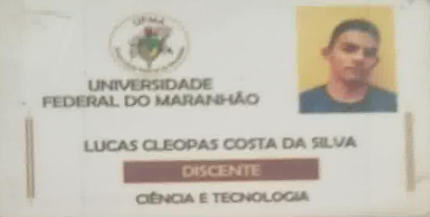
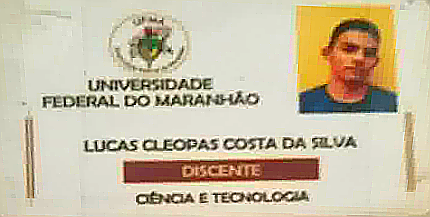
adding enhance image function

diff --git a/src/scan_img.py b/src/scan_img.py
@@ -1,9 +1,25 @@
 import cv2
 import os
 import numpy as np
+from PIL import ImageEnhance
 
-from config import OUT_DIR
-from src.utils import order_points, resize_img, four_point_transform
+from config import OUT_DIR, BRIGHTNESS, COLOR, CONTRAST, SHARPNESS
+from src.utils import order_points, resize_img, four_point_transform, pil_to_cv2_image, cv2_to_pil_image
+
+
+def image_enhancement(img):
+    pil_img = cv2_to_pil_image(img)
+    enhanced_img = pil_img.copy()
+    curr_col = ImageEnhance.Color(enhanced_img)
+    enhanced_img = curr_col.enhance(COLOR)
+    curr_bright = ImageEnhance.Color(enhanced_img)
+    enhanced_img = curr_bright.enhance(BRIGHTNESS)
+    curr_sharp = ImageEnhance.Sharpness(enhanced_img)
+    enhanced_img = curr_sharp.enhance(SHARPNESS)
+    curr_con = ImageEnhance.Contrast(enhanced_img)
+    enhanced_img = curr_con.enhance(CONTRAST)
+    enhanced_img = pil_to_cv2_image(enhanced_img)
+    return enhanced_img
 
 
 def get_edges(img):
@@ -57,6 +73,8 @@ def scan_img(img, img_name, save_steps=True, show_steps=True):
         cnt = max(contours, key = cv2.contourArea)
         x, y, w, h = cv2.boundingRect(cnt)  
         scanned_img = orig_img[y:y+h, x:x+w]        
+
+    scanned_img = image_enhancement(scanned_img)   
 
     cv2.rectangle(img, (x, y), (x + w, y + h), (0, 255, 0), 3)
 

diff --git a/src/utils.py b/src/utils.py
@@ -1,5 +1,6 @@
 import cv2
 import numpy as np
+from PIL import Image
 
 from config import DIM_LIMIT
 
@@ -47,3 +48,13 @@ def four_point_transform(img, rect):
 	warped = cv2.warpPerspective(img, M, (maxWidth, maxHeight))
 
 	return warped
+
+
+def pil_to_cv2_image(pil_img):
+	img_array = cv2.cvtColor(np.array(pil_img), cv2.COLOR_RGB2BGR) 
+	return img_array
+
+
+def cv2_to_pil_image(img):
+	pil_img = Image.fromarray(cv2.cvtColor(img, cv2.COLOR_BGR2RGB))
+	return pil_img

diff --git a/config.py b/config.py
@@ -1,3 +1,8 @@
 IMG_DIR = "images"
 OUT_DIR = "output"
 DIM_LIMIT = 1080
+
+BRIGHTNESS = 1.0
+COLOR = 1.5
+CONTRAST = 1.5
+SHARPNESS = 8.3
